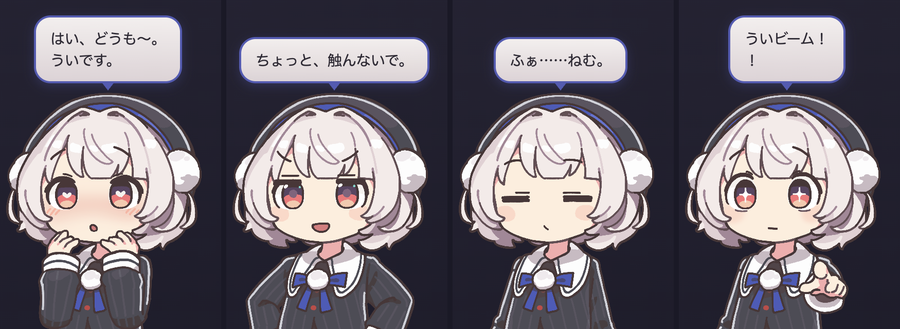
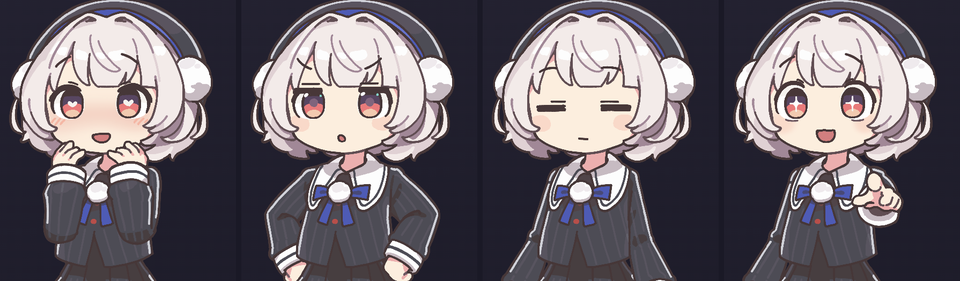
docs: ヘッダー画像から吹き出しを外し、ビームは口を開けた瞬間にする
セリフが入っていると絵として散らかるので、吹き出しより下だけを切り出す。
口パクは発話中しか動かないため、喋らせた状態で撮ってから吹き出しを落とす。
ビームは口パクの位相を狙って連写し、開いているコマを選んだ。

diff --git a/docs/STYLE.md b/docs/STYLE.md
@@ -1,0 +1,107 @@
+# ドキュメントの書きかた
+
+> **ドキュメントを書く・直すときに読む。** ここに書いてある型を守れば、どのページも同じ顔になる。
+> 読む人は毎回レイアウトを学び直さずに済むし、書く人は迷わずに済む。
+
+CSS は使えないので、**GitHub の Markdown でできることだけ**を組み合わせて統一感を作る。
+凝ったことはしない。決めごとを少なくして、全部のページで必ず守るほうが効く。
+
+---
+
+## `01` ページの型
+
+どのページも、この4つで始める。
+
+```markdown
+# タイトル（名詞。機能名か作業名）
+
+> **いつ読むか。** 1〜2文で、このページが答える問いを書く。
+> 別のページのほうが適切なら、そのリンクをここで出す。
+
+---
+```
+
+<sub>リード文を引用（`>`）にしているのは、本文と視覚的に切り離すため。GitHub では
+引用が左に縦線で表示されるので、それだけで「案内文」だと分かる。</sub>
+
+## `02` 見出し
+
+| レベル | 使いかた |
+|---|---|
+| `#` | ページに1つだけ。タイトル |
+| `## \`01\` 見出し` | 大きな区切り。**番号を付ける**。区切りの前に `---` を入れる |
+| `###` | その中の手順や項目。番号は付けない |
+| `####` | 使わない。必要になったらページを分ける合図 |
+
+番号は図解ページ（[SETUP.html](SETUP.html)）の `01` `02` と同じ役割で、
+「いくつあって、いま何番目か」を読む人に渡すためのもの。
+
+## `03` コールアウト（色）
+
+GitHub Alerts は種類ごとに色が付く。**用途を固定して、色が意味を持つようにする。**
+
+> [!NOTE]
+> 青。前提・環境・仕様の補足。知らなくても進めるが、知っていると迷わないこと。
+
+> [!TIP]
+> 緑。近道・省略できること。「これ全部やらなくていいよ」の合図。
+
+> [!IMPORTANT]
+> 紫。守ってほしい約束。権利表記、命名規約、設計上の決めごと。
+
+> [!WARNING]
+> 黄。壊れる操作、ハマりどころ。やり直せるが痛いもの。
+
+> [!CAUTION]
+> 赤。取り返しがつかないもの。公開、削除、上書き。**滅多に使わない。**
+
+<sub>1ページに何個も置かない。目安は2つまで。多いと色が意味を失う。</sub>
+
+## `04` 表
+
+説明が3つ以上並ぶときは、箇条書きより表にする。視線が止まる場所ができる。
+
+- **1列目は「対象」**（id、ファイル名、コマンド、キー）。ここが揃うと読みやすい
+- 記号・絵文字の列は `|:---:|` で中央寄せ
+- 最後の列に「そうしないとどうなるか」を置くと、判断できる表になる
+
+| 悪い例 | 良い例 |
+|---|---|
+| 説明を文章で3段落 | 表にして、1列目に対象、最後に結果 |
+| `| 項目 | 説明 |` だけ | `| 項目 | 何が起きる | 省略すると |` |
+
+## `05` 補足と強調
+
+| 書きかた | 使いどころ |
+|---|---|
+| `<sub>小さい文字</sub>` | 注釈。読み飛ばしてよい情報。段落の末尾に置く |
+| `**太字**` | その段落で1箇所だけ。多用すると効かなくなる |
+| `` `コード` `` | ファイル名、コマンド、設定キー、Cue名 |
+| `<kbd>Enter</kbd>` | 実際に押すキー |
+
+## `06` ページの終わり
+
+行き先を示して終わる。読み終えた人を放り出さない。
+
+```markdown
+---
+
+<sub>次に読むなら [XXX.md](XXX.md)（〜したいとき） / [YYY.md](YYY.md)（〜したいとき）</sub>
+```
+
+## `07` 口調
+
+| 場所 | 誰の言葉か |
+|---|---|
+| `README.md` | **ういちゃん本人**。「わたし」「きみ」。使う人向けの案内 |
+| `docs/` | **書き手**。です・ます。事実と理由を淡々と |
+| `persona/` `context/` | ドキュメントではない。**AI に注入される設定**。触ると振る舞いが変わる |
+| `CLAUDE.md` | 実装者向け。英語。設計判断と、そう決めた理由 |
+
+> [!IMPORTANT]
+> `docs/` でういちゃんの口調を真似しない。**楽しいのは README だけでいい。**
+> 手順書が語尾で揺れると、読む側は情報の正確さを疑いはじめる。
+
+---
+
+<sub>このページ自体がこの型で書かれています。迷ったら、ここの見た目を真似してください。</sub>

diff --git a/README.md b/README.md
@@ -1,5 +1,5 @@
 <p align="center">
-  <img src="docs/images/faces.png" alt="ういちゃんの表情いろいろ" width="760">
+  <img src="docs/images/faces.png" alt="ういちゃんの表情いろいろ" width="820">
 </p>
 
 <h1 align="center">ui-chan-mcp</h1>
